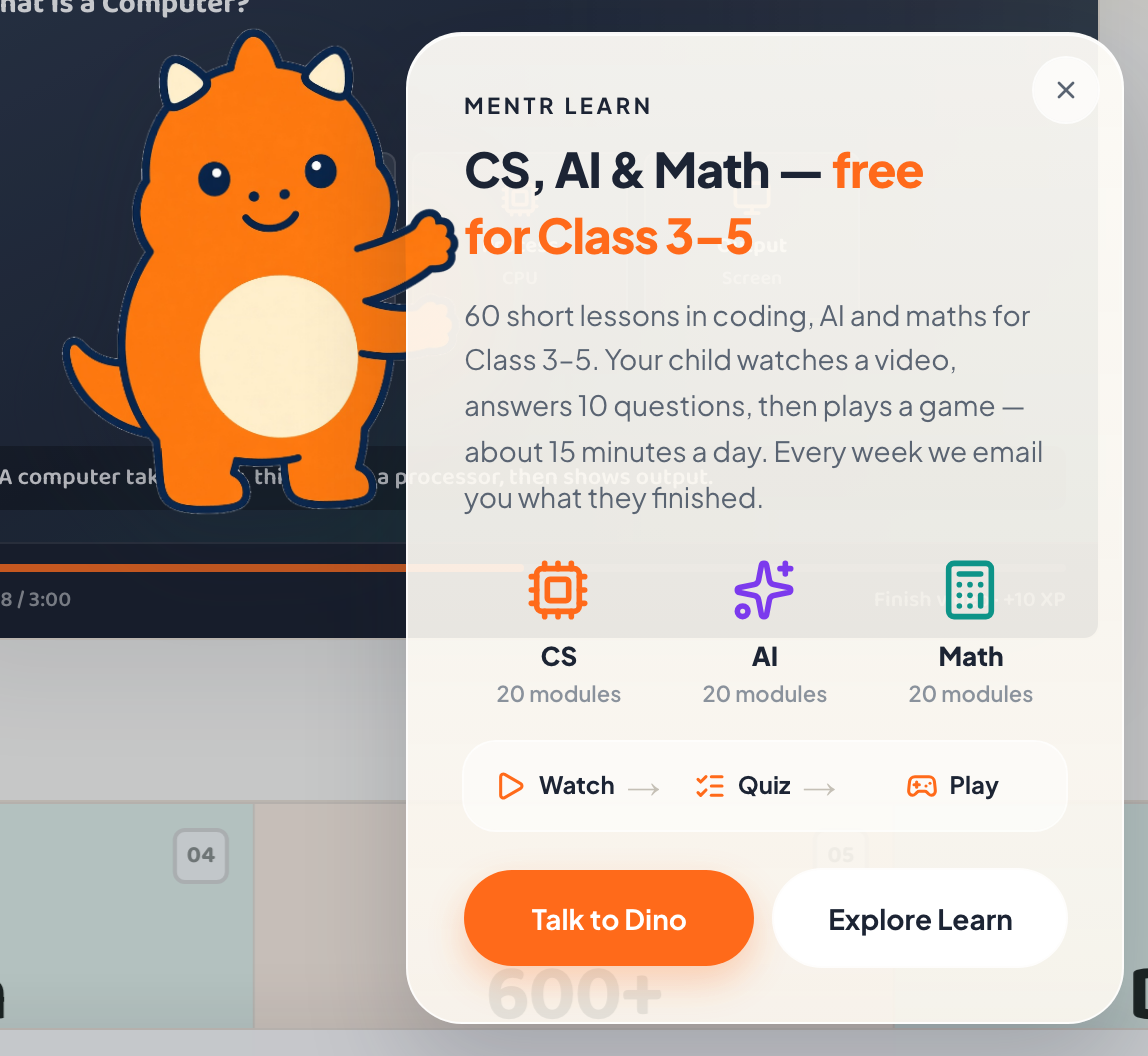
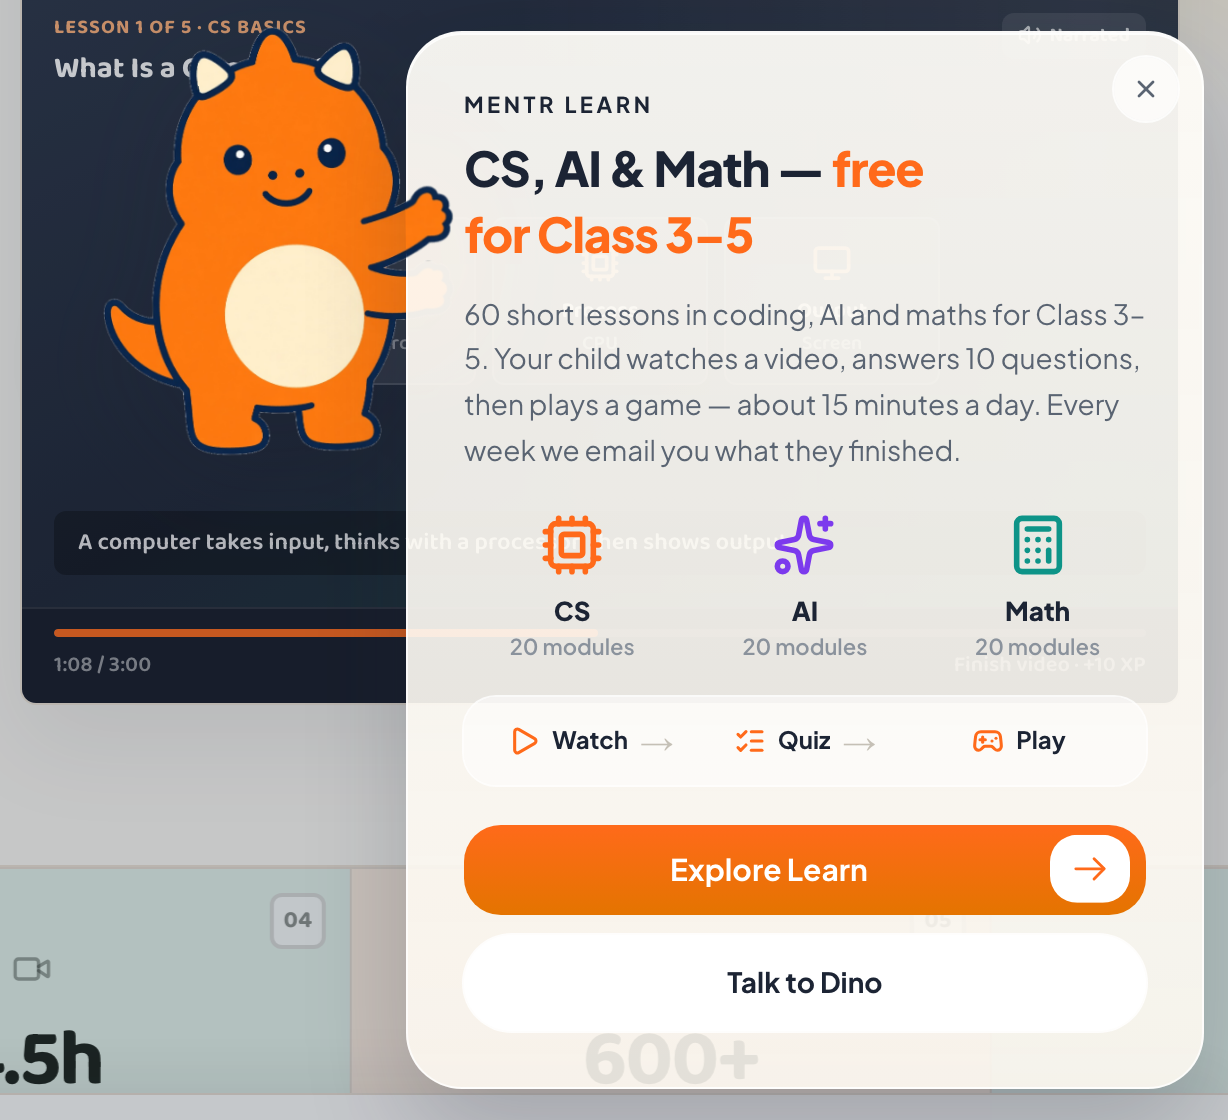
changes for the learn by mentr dino design and chat 02

diff --git a/src/components/landing/lp/learn-dino-guide.tsx b/src/components/landing/lp/learn-dino-guide.tsx
@@ -30,6 +30,7 @@ import Link from "next/link";
 import { usePathname } from "next/navigation";
 import { useEffect, useId, useRef, useState } from "react";
 import { LearnDino } from "./learn-dino";
+import { LearnStartButton } from "./learn-start-button";
 
 const HIDDEN_PREFIXES = ["/admin", "/admintestingistrueonlyman134hsydsudy4"];
 
@@ -268,24 +269,24 @@ export function LearnDinoGuide() {
                       ))}
                     </div>
 
-                    <div className="mt-5 grid grid-cols-1 gap-2.5 sm:grid-cols-2">
+                    <div className="mt-5 grid grid-cols-1 gap-2.5">
+                      <LearnStartButton
+                        href={onLearn ? "#curriculum" : "/learn"}
+                        onClick={() => setOpen(false)}
+                        className="w-full justify-center"
+                      >
+                        Explore Learn
+                      </LearnStartButton>
                       <button
                         type="button"
                         onClick={() => {
                           setTalk(true);
                           setFaqId(DINO_FAQ_START);
                         }}
-                        className="inline-flex h-12 items-center justify-center rounded-full bg-[#ff6a1a] px-4 text-[14px] font-bold text-white shadow-[0_8px_18px_rgba(255,106,26,0.28)] transition hover:bg-[#e85f14]"
+                        className="inline-flex h-12 items-center justify-center rounded-full bg-white/75 px-4 text-[14px] font-bold text-[#1c2434] ring-1 ring-white/85 transition hover:bg-white"
                       >
                         Talk to Dino
                       </button>
-                      <Link
-                        href={onLearn ? "#curriculum" : "/learn"}
-                        onClick={() => setOpen(false)}
-                        className="inline-flex h-12 items-center justify-center rounded-full bg-white/75 px-4 text-[14px] font-bold text-[#1c2434] ring-1 ring-white/85 transition hover:bg-white"
-                      >
-                        Explore Learn
-                      </Link>
                     </div>
                   </>
                 ) : (
@@ -355,13 +356,13 @@ export function LearnDinoGuide() {
                       ))}
                     </div>
 
-                    <Link
+                    <LearnStartButton
                       href={onLearn ? "#curriculum" : "/learn"}
                       onClick={() => setOpen(false)}
-                      className="mt-3 inline-flex h-12 w-full items-center justify-center rounded-full bg-white/75 px-4 text-[14px] font-bold text-[#1c2434] ring-1 ring-white/85 transition hover:bg-white"
+                      className="mt-3 w-full justify-center"
                     >
                       Explore Learn
-                    </Link>
+                    </LearnStartButton>
                   </div>
                 )}
               </div>
